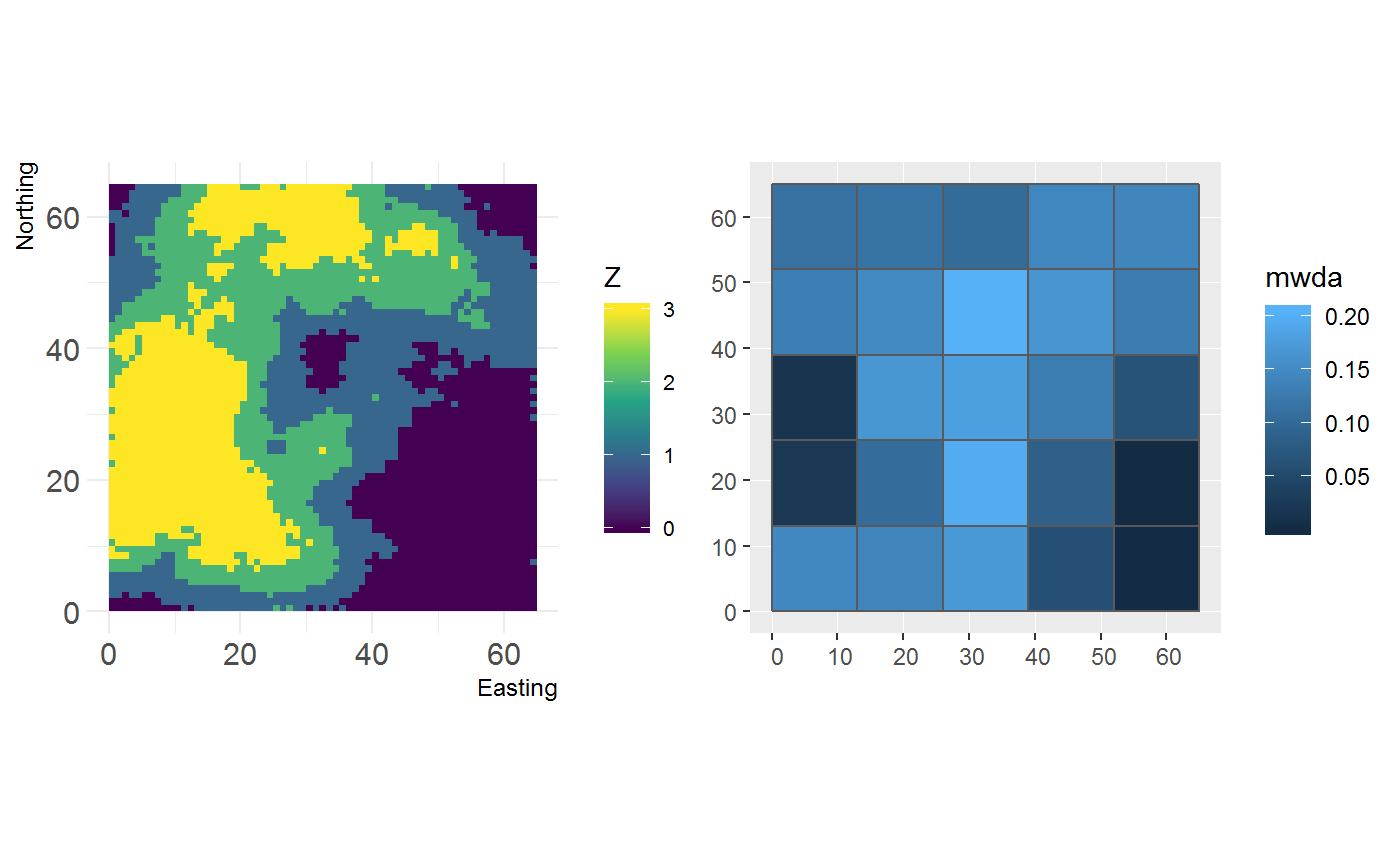
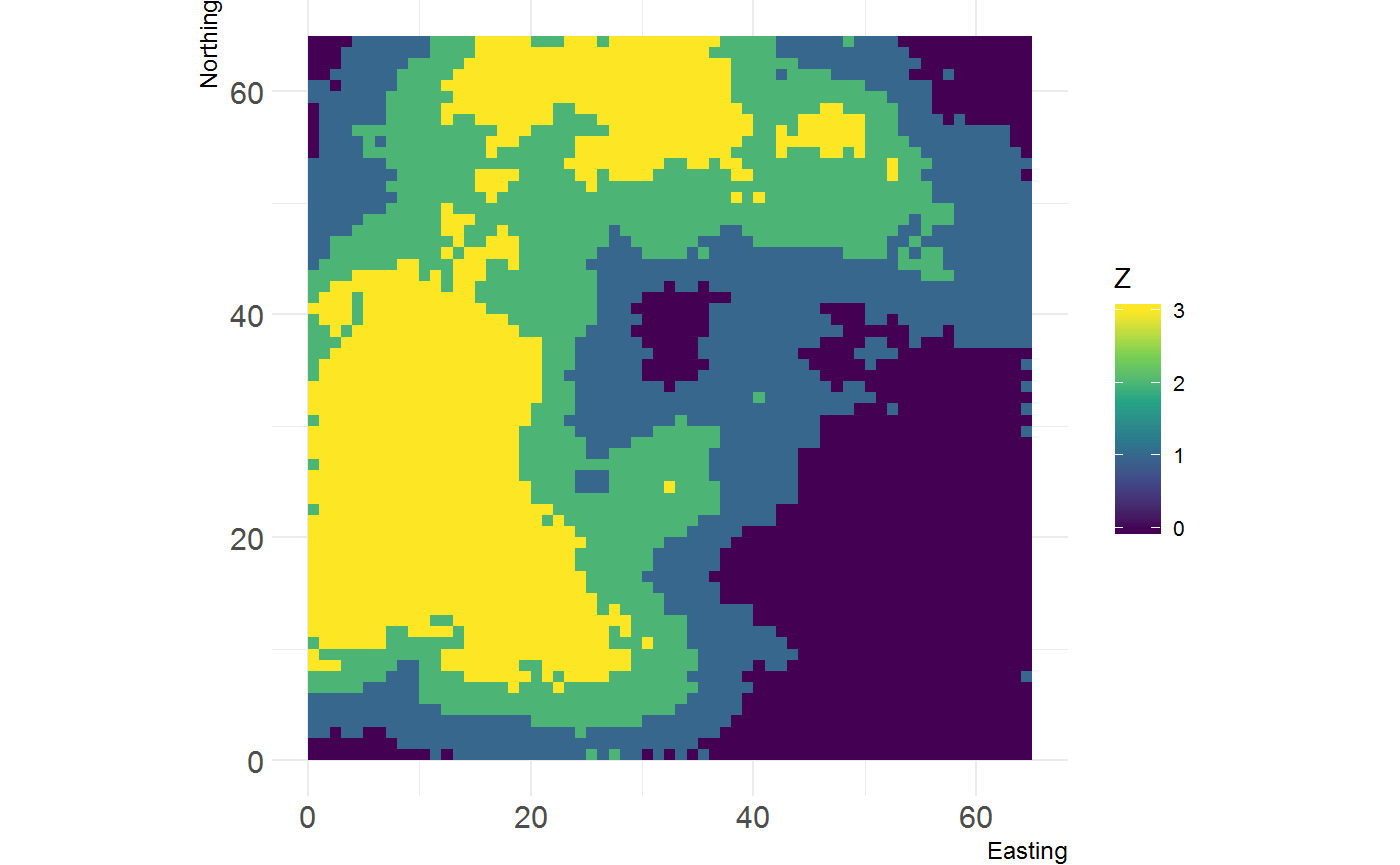
fix readme dependencies

diff --git a/docs/index.html b/docs/index.html
@@ -132,41 +132,40 @@
 <p>The below example shows the moving-window data aggregation in action. It aggregates a categorical raster to a grid using Shannon evenness as the function calculated within a square moving window of 5 units. This value is included as a column on the grid <code>sf</code> object.</p>
 <div class="sourceCode" id="cb2"><pre class="sourceCode r"><code class="sourceCode r"><a class="sourceLine" id="cb2-1" title="1"><span class="kw"><a href="https://www.rdocumentation.org/packages/base/topics/library">library</a></span>(grainchanger)</a>
 <a class="sourceLine" id="cb2-2" title="2"><span class="kw"><a href="https://www.rdocumentation.org/packages/base/topics/library">library</a></span>(ggplot2)</a>
-<a class="sourceLine" id="cb2-3" title="3"><span class="kw"><a href="https://www.rdocumentation.org/packages/base/topics/library">library</a></span>(patchwork)</a>
-<a class="sourceLine" id="cb2-4" title="4"><span class="kw"><a href="https://www.rdocumentation.org/packages/base/topics/library">library</a></span>(landscapetools)</a>
-<a class="sourceLine" id="cb2-5" title="5"></a>
-<a class="sourceLine" id="cb2-6" title="6">g_sf<span class="op">$</span>mwda &lt;-<span class="st"> </span><span class="kw"><a href="reference/winmove_agg.html">winmove_agg</a></span>(<span class="dt">g =</span> g_sf,</a>
-<a class="sourceLine" id="cb2-7" title="7">            <span class="dt">dat =</span> cat_ls, </a>
-<a class="sourceLine" id="cb2-8" title="8">            <span class="dt">d =</span> <span class="dv">5</span>,</a>
-<a class="sourceLine" id="cb2-9" title="9">            <span class="dt">type =</span> <span class="st">"rectangle"</span>,</a>
-<a class="sourceLine" id="cb2-10" title="10">            <span class="dt">fun =</span> <span class="st">"shei"</span>,</a>
-<a class="sourceLine" id="cb2-11" title="11">            <span class="dt">lc_class =</span> <span class="dv">0</span><span class="op">:</span><span class="dv">3</span>)</a>
-<a class="sourceLine" id="cb2-12" title="12"><span class="co">#&gt; Loading required package: raster</span></a>
-<a class="sourceLine" id="cb2-13" title="13"><span class="co">#&gt; Loading required package: sp</span></a>
-<a class="sourceLine" id="cb2-14" title="14"></a>
-<a class="sourceLine" id="cb2-15" title="15">p1 &lt;-<span class="st"> </span><span class="kw">show_landscape</span>(cat_ls)</a>
-<a class="sourceLine" id="cb2-16" title="16"></a>
-<a class="sourceLine" id="cb2-17" title="17">p2 &lt;-<span class="st"> </span><span class="kw">ggplot</span>(g_sf) <span class="op">+</span><span class="st"> </span></a>
-<a class="sourceLine" id="cb2-18" title="18"><span class="st">  </span><span class="kw">geom_sf</span>(<span class="kw">aes</span>(<span class="dt">fill =</span> mwda))</a>
-<a class="sourceLine" id="cb2-19" title="19"></a>
-<a class="sourceLine" id="cb2-20" title="20">p1 <span class="op">+</span><span class="st"> </span>p2</a></code></pre></div>
+<a class="sourceLine" id="cb2-3" title="3"><span class="kw"><a href="https://www.rdocumentation.org/packages/base/topics/library">library</a></span>(landscapetools)</a>
+<a class="sourceLine" id="cb2-4" title="4"></a>
+<a class="sourceLine" id="cb2-5" title="5"><span class="co"># categorical landscape</span></a>
+<a class="sourceLine" id="cb2-6" title="6"><span class="kw">show_landscape</span>(cat_ls)</a>
+<a class="sourceLine" id="cb2-7" title="7"><span class="co">#&gt; Loading required package: raster</span></a>
+<a class="sourceLine" id="cb2-8" title="8"><span class="co">#&gt; Loading required package: sp</span></a></code></pre></div>
 <p><img src="reference/figures/README-mwda_example-1.png" width="100%"></p>
+<div class="sourceCode" id="cb3"><pre class="sourceCode r"><code class="sourceCode r"><a class="sourceLine" id="cb3-1" title="1"></a>
+<a class="sourceLine" id="cb3-2" title="2"><span class="co"># moving-window aggregation using Shannon evenness</span></a>
+<a class="sourceLine" id="cb3-3" title="3">g_sf<span class="op">$</span>mwda &lt;-<span class="st"> </span><span class="kw"><a href="reference/winmove_agg.html">winmove_agg</a></span>(<span class="dt">g =</span> g_sf,</a>
+<a class="sourceLine" id="cb3-4" title="4">            <span class="dt">dat =</span> cat_ls, </a>
+<a class="sourceLine" id="cb3-5" title="5">            <span class="dt">d =</span> <span class="dv">5</span>,</a>
+<a class="sourceLine" id="cb3-6" title="6">            <span class="dt">type =</span> <span class="st">"rectangle"</span>,</a>
+<a class="sourceLine" id="cb3-7" title="7">            <span class="dt">fun =</span> <span class="st">"shei"</span>,</a>
+<a class="sourceLine" id="cb3-8" title="8">            <span class="dt">lc_class =</span> <span class="dv">0</span><span class="op">:</span><span class="dv">3</span>)</a>
+<a class="sourceLine" id="cb3-9" title="9"></a>
+<a class="sourceLine" id="cb3-10" title="10"><span class="kw">ggplot</span>(g_sf) <span class="op">+</span><span class="st"> </span><span class="kw">geom_sf</span>(<span class="kw">aes</span>(<span class="dt">fill =</span> mwda))</a></code></pre></div>
+<p><img src="reference/figures/README-mwda_example-2.png" width="100%"></p>
 </div>
 <div id="direct-data-aggregation-1" class="section level3">
 <h3 class="hasAnchor">
 <a href="#direct-data-aggregation-1" class="anchor"></a>Direct data aggregation</h3>
 <p>The below example shows the direct data aggregation in action. It aggregates a continuous raster to a grid using the range as the function calculated for each cell of the larger grid. This value is included as a column on the grid <code>sf</code> object. <code>var_range</code> is an inbuilt function in the <code>grainchanger</code> package.</p>
-<div class="sourceCode" id="cb3"><pre class="sourceCode r"><code class="sourceCode r"><a class="sourceLine" id="cb3-1" title="1">g_sf<span class="op">$</span>range &lt;-<span class="st"> </span><span class="kw"><a href="reference/nomove_agg.html">nomove_agg</a></span>(<span class="dt">g =</span> g_sf,</a>
-<a class="sourceLine" id="cb3-2" title="2">            <span class="dt">dat =</span> cat_ls, </a>
-<a class="sourceLine" id="cb3-3" title="3">            <span class="dt">fun =</span> <span class="st">"var_range"</span>)</a>
-<a class="sourceLine" id="cb3-4" title="4"></a>
-<a class="sourceLine" id="cb3-5" title="5">p1 &lt;-<span class="st"> </span><span class="kw">show_landscape</span>(cont_ls)</a>
-<a class="sourceLine" id="cb3-6" title="6"></a>
-<a class="sourceLine" id="cb3-7" title="7">p2 &lt;-<span class="st"> </span><span class="kw">ggplot</span>(g_sf) <span class="op">+</span><span class="st"> </span></a>
-<a class="sourceLine" id="cb3-8" title="8"><span class="st">  </span><span class="kw">geom_sf</span>(<span class="kw">aes</span>(<span class="dt">fill =</span> range))</a>
-<a class="sourceLine" id="cb3-9" title="9"></a>
-<a class="sourceLine" id="cb3-10" title="10">p1 <span class="op">+</span><span class="st"> </span>p2</a></code></pre></div>
+<div class="sourceCode" id="cb4"><pre class="sourceCode r"><code class="sourceCode r"><a class="sourceLine" id="cb4-1" title="1"><span class="co"># continuous landscape</span></a>
+<a class="sourceLine" id="cb4-2" title="2"><span class="kw">show_landscape</span>(cont_ls)</a></code></pre></div>
 <p><img src="reference/figures/README-dda_example-1.png" width="100%"></p>
+<div class="sourceCode" id="cb5"><pre class="sourceCode r"><code class="sourceCode r"><a class="sourceLine" id="cb5-1" title="1"></a>
+<a class="sourceLine" id="cb5-2" title="2"><span class="co"># direct aggregation using range</span></a>
+<a class="sourceLine" id="cb5-3" title="3">g_sf<span class="op">$</span>range &lt;-<span class="st"> </span><span class="kw"><a href="reference/nomove_agg.html">nomove_agg</a></span>(<span class="dt">g =</span> g_sf,</a>
+<a class="sourceLine" id="cb5-4" title="4">            <span class="dt">dat =</span> cat_ls, </a>
+<a class="sourceLine" id="cb5-5" title="5">            <span class="dt">fun =</span> <span class="st">"var_range"</span>)</a>
+<a class="sourceLine" id="cb5-6" title="6"></a>
+<a class="sourceLine" id="cb5-7" title="7"><span class="kw">ggplot</span>(g_sf) <span class="op">+</span><span class="st"> </span><span class="kw">geom_sf</span>(<span class="kw">aes</span>(<span class="dt">fill =</span> range))</a></code></pre></div>
+<p><img src="reference/figures/README-dda_example-2.png" width="100%"></p>
 </div>
 </div>
 <div id="functions" class="section level2">
@@ -175,9 +174,9 @@
 <p>There are a number of inbuilt functions in the grainchanger package, with their useage outlined below. While it is possible to use user-defined functions within both <code>winmove_agg</code> and <code>nomove_agg</code>, we welcome suggestions for additional functions. Please <a href="https://github.com/laurajanegraham/grainchanger/issues">add as an issue</a> - doing it this way means we can maximise the speed of the function.</p>
 <table class="table table">
 <thead><tr class="header">
-<th align="left">Function Name</th>
+<th align="left">Function.Name</th>
 <th align="left">Description</th>
-<th align="left">Additional arguments</th>
+<th align="left">Additional.arguments</th>
 </tr></thead>
 <tbody>
 <tr class="odd">
@@ -225,9 +224,9 @@
 <h3 class="hasAnchor">
 <a href="#create-torus" class="anchor"></a>Create torus</h3>
 <p>The <code>create_torus</code> function takes as input a square or rectangular landscape and pads it by a specified radius, creating the effect of a torus. We developed this function in order to avoid edge effects when testing methods on simulated landscapes (such as those from <a href="https://ropensci.github.io/NLMR/">NLMR</a>).</p>
-<div class="sourceCode" id="cb4"><pre class="sourceCode r"><code class="sourceCode r"><a class="sourceLine" id="cb4-1" title="1">torus &lt;-<span class="st"> </span><span class="kw"><a href="reference/create_torus.html">create_torus</a></span>(cat_ls, <span class="dv">5</span>)</a>
-<a class="sourceLine" id="cb4-2" title="2"></a>
-<a class="sourceLine" id="cb4-3" title="3"><span class="kw">show_landscape</span>(torus)</a></code></pre></div>
+<div class="sourceCode" id="cb6"><pre class="sourceCode r"><code class="sourceCode r"><a class="sourceLine" id="cb6-1" title="1">torus &lt;-<span class="st"> </span><span class="kw"><a href="reference/create_torus.html">create_torus</a></span>(cat_ls, <span class="dv">5</span>)</a>
+<a class="sourceLine" id="cb6-2" title="2"></a>
+<a class="sourceLine" id="cb6-3" title="3"><span class="kw">show_landscape</span>(torus)</a></code></pre></div>
 <p><img src="reference/figures/README-torus-1.png" width="100%"></p>
 </div>
 </div>

diff --git a/README.md b/README.md
@@ -55,27 +55,30 @@ is included as a column on the grid `sf` object.
 ``` r
 library(grainchanger)
 library(ggplot2)
-library(patchwork)
 library(landscapetools)
 
+# categorical landscape
+show_landscape(cat_ls)
+#> Loading required package: raster
+#> Loading required package: sp
+```
+
+<img src="man/figures/README-mwda_example-1.png" width="100%" />
+
+``` r
+
+# moving-window aggregation using Shannon evenness
 g_sf$mwda <- winmove_agg(g = g_sf,
             dat = cat_ls, 
             d = 5,
             type = "rectangle",
             fun = "shei",
             lc_class = 0:3)
-#> Loading required package: raster
-#> Loading required package: sp
 
-p1 <- show_landscape(cat_ls)
-
-p2 <- ggplot(g_sf) + 
-  geom_sf(aes(fill = mwda))
-
-p1 + p2
+ggplot(g_sf) + geom_sf(aes(fill = mwda))
 ```
 
-<img src="man/figures/README-mwda_example-1.png" width="100%" />
+<img src="man/figures/README-mwda_example-2.png" width="100%" />
 
 ### Direct data aggregation
 
@@ -86,19 +89,23 @@ column on the grid `sf` object. `var_range` is an inbuilt function in
 the `grainchanger` package.
 
 ``` r
+# continuous landscape
+show_landscape(cont_ls)
+```
+
+<img src="man/figures/README-dda_example-1.png" width="100%" />
+
+``` r
+
+# direct aggregation using range
 g_sf$range <- nomove_agg(g = g_sf,
             dat = cat_ls, 
             fun = "var_range")
 
-p1 <- show_landscape(cont_ls)
-
-p2 <- ggplot(g_sf) + 
-  geom_sf(aes(fill = range))
-
-p1 + p2
+ggplot(g_sf) + geom_sf(aes(fill = range))
 ```
 
-<img src="man/figures/README-dda_example-1.png" width="100%" />
+<img src="man/figures/README-dda_example-2.png" width="100%" />
 
 ## Functions
 
@@ -110,7 +117,7 @@ issue](https://github.com/laurajanegraham/grainchanger/issues) - doing
 it this way means we can maximise the speed of the
 function.
 
-| Function Name | Description                                                                | Additional arguments |
+| Function.Name | Description                                                                | Additional.arguments |
 | :------------ | :------------------------------------------------------------------------- | :------------------- |
 | wm\_prop      | Calculate the proportion of a given class within the moving window         | lc\_class (numeric)  |
 | wm\_classes   | Calculate the number of classes within the moving window                   |                      |
